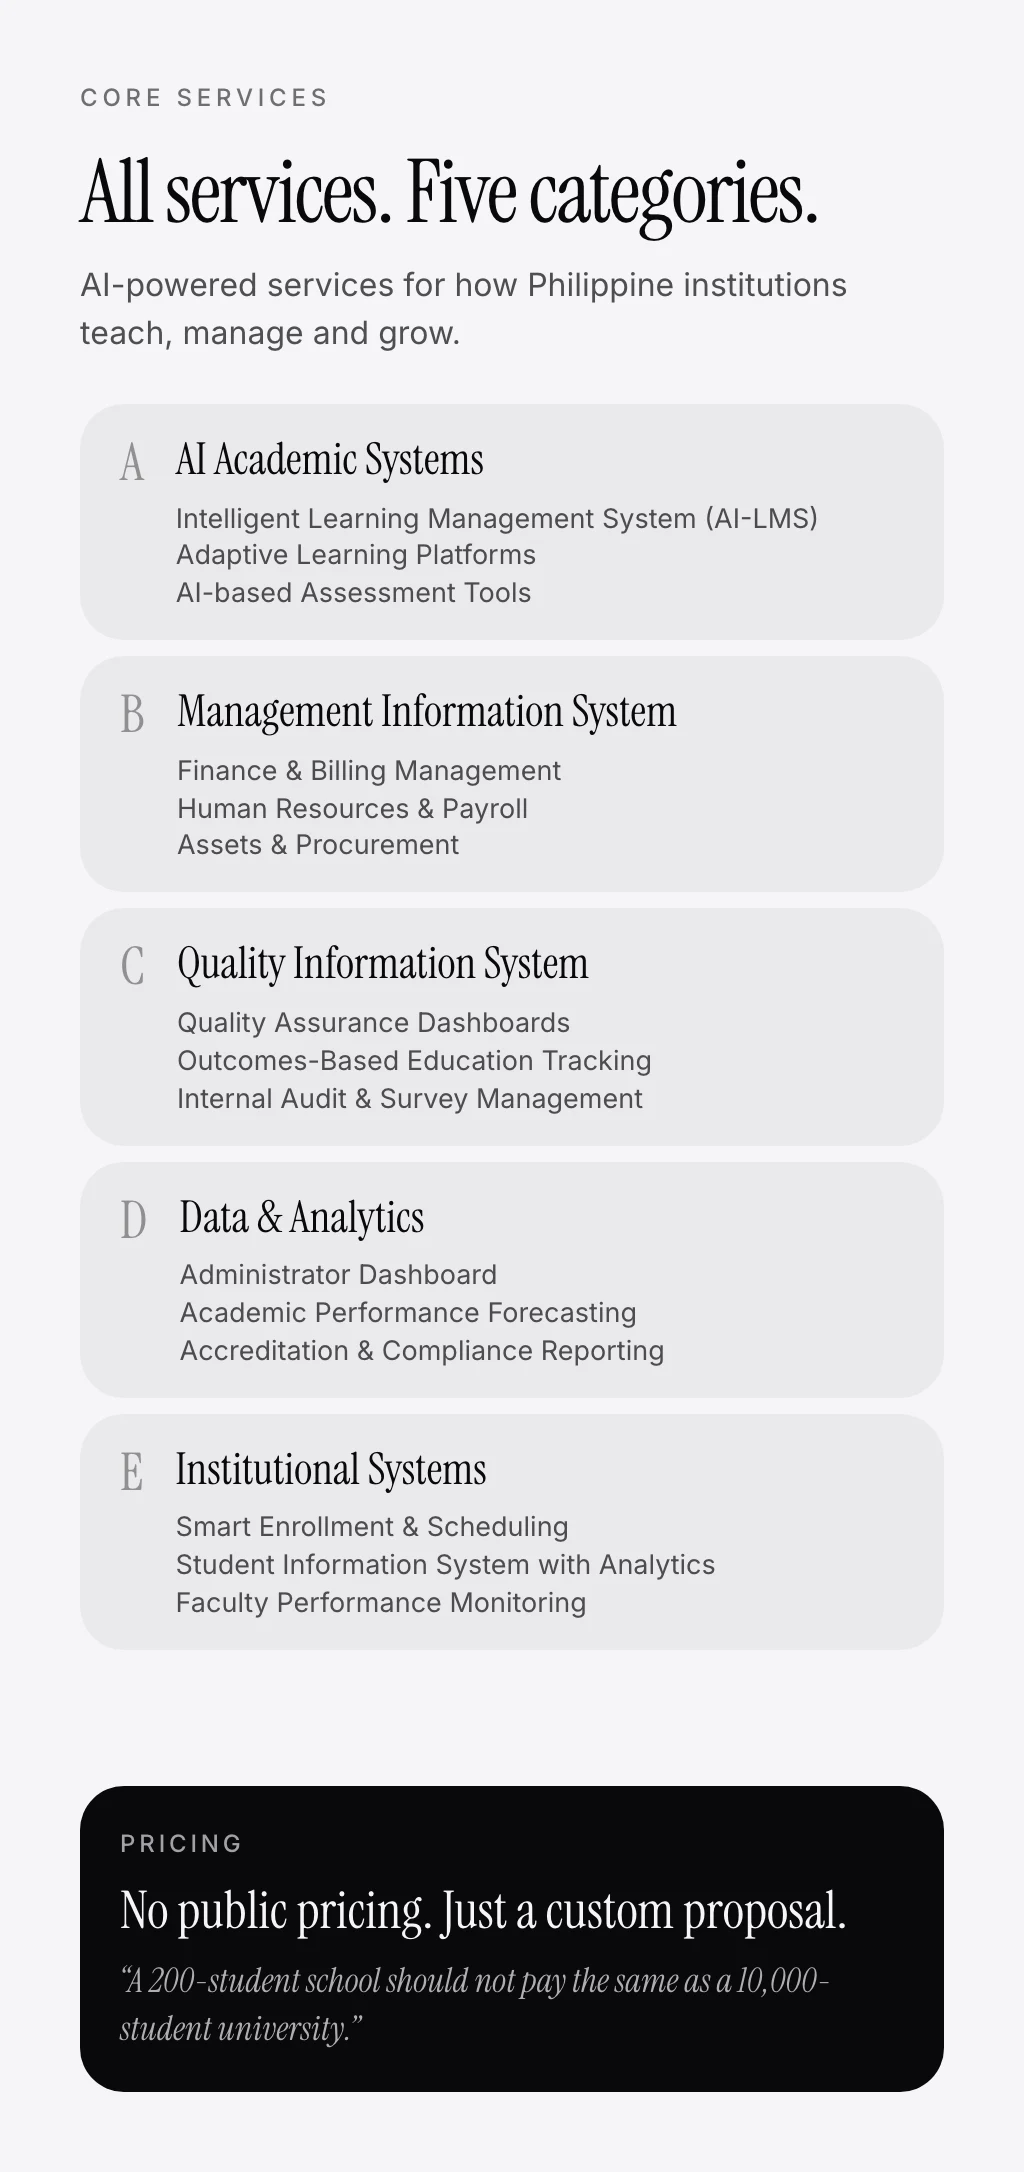
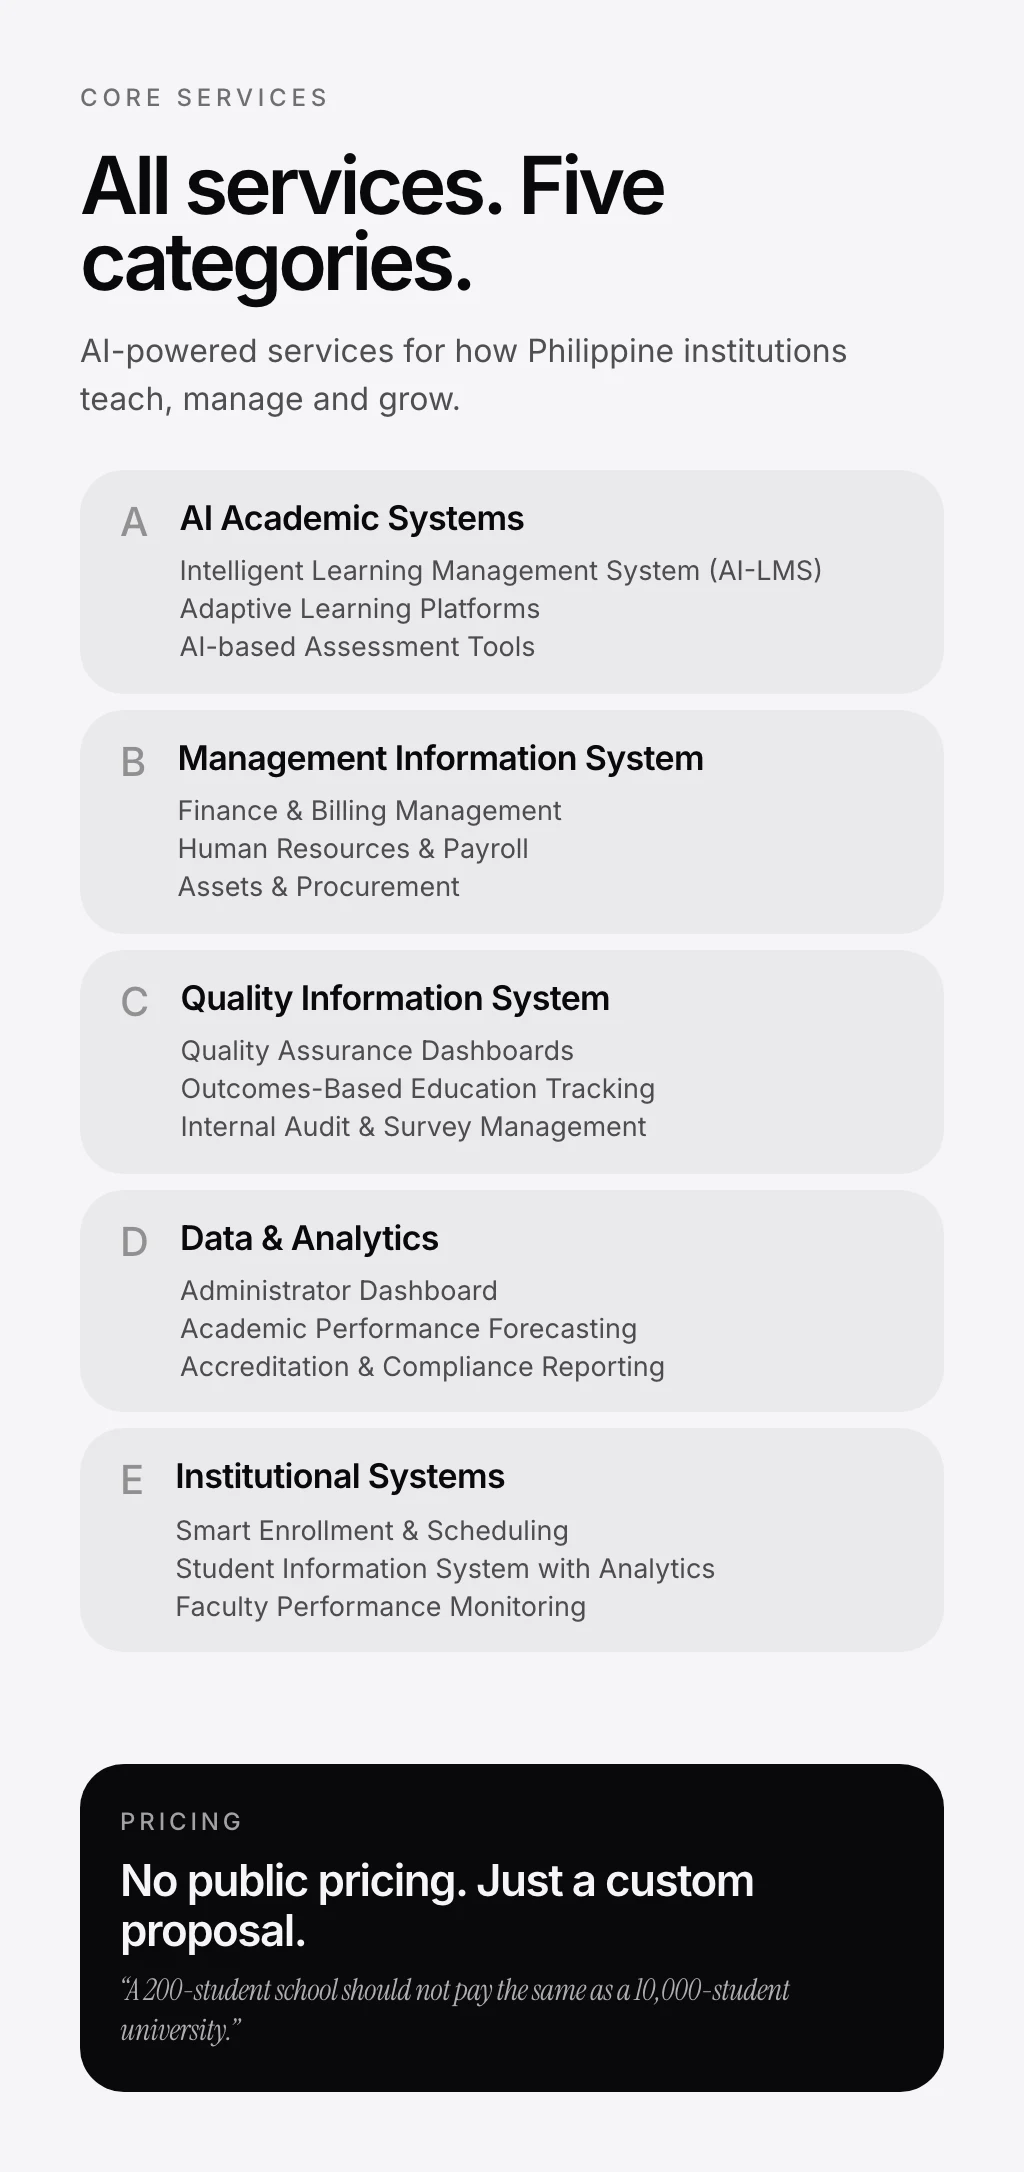
Typography: match the site — Inter semibold headings, Instrument Serif italic only as accent
Headlines were set in upright Instrument Serif, which the site never uses. The site
sets display text in Inter 600 with tight tracking and reserves Instrument Serif for
the italic accent line (.text-accent-serif). Mirror that on all six panels and in the
hotspot sheet; load only the italic serif face; re-render the panel textures.

diff --git a/components/panels/InsideC.tsx b/components/panels/InsideC.tsx
@@ -7,15 +7,15 @@ export function InsideC() {
   return (
     <Panel tone="paper">
       <Eyebrow>{s.eyebrow}</Eyebrow>
-      <h2 className="mt-4 font-serif text-[44px] leading-[1.0] tracking-tight">{s.heading}</h2>
+      <h2 className="mt-4 text-[40px] font-semibold leading-[0.96] tracking-[-0.05em]">{s.heading}</h2>
       <p className="mt-3 text-[16px] leading-[1.5] text-ink/70">{s.body}</p>
 
       <ul className="mt-6 flex flex-col gap-2">
         {s.categories.map((c) => (
           <li key={c.id} data-hotspot={c.id} className="flex gap-4 rounded-panel bg-black/[0.045] px-5 py-3.5">
-            <span className="mt-0.5 font-serif text-[26px] leading-none text-ink/40">{c.letter}</span>
+            <span className="mt-0.5 text-[20px] font-medium leading-none tracking-[-0.02em] text-ink/40">{c.letter}</span>
             <div>
-              <p className="font-serif text-[22px] leading-tight">{c.title}</p>
+              <p className="text-[17px] font-semibold leading-tight tracking-[-0.02em]">{c.title}</p>
               <ul className="mt-1.5 text-[13.5px] leading-[1.4] text-ink/70">
                 {c.items.map((it) => (
                   <li key={it}>{it}</li>
@@ -28,8 +28,8 @@ export function InsideC() {
 
       <div data-hotspot="pricing" className="mt-auto rounded-panel bg-ink p-5 text-paper">
         <p className="text-[12px] font-medium uppercase tracking-[0.16em] text-muted-dark">{p.eyebrow}</p>
-        <p className="mt-2 font-serif text-[26px] leading-tight">{p.heading}</p>
-        <p className="mt-2 font-serif text-[17px] italic leading-snug text-paper/70">“{p.quote}”</p>
+        <p className="mt-2 text-[22px] font-semibold leading-[1.1] tracking-[-0.035em]">{p.heading}</p>
+        <p className="accent-serif mt-2 text-[15px] leading-snug text-paper/70">“{p.quote}”</p>
       </div>
     </Panel>
   );

diff --git a/components/panels/InsideA.tsx b/components/panels/InsideA.tsx
@@ -7,7 +7,7 @@ export function InsideA() {
   return (
     <Panel tone="paper">
       <Eyebrow>{t.eyebrow}</Eyebrow>
-      <h2 className="mt-4 font-serif text-[42px] leading-[1.02] tracking-tight">{t.heading}</h2>
+      <h2 className="mt-4 text-[38px] font-semibold leading-[0.98] tracking-[-0.05em]">{t.heading}</h2>
       <p className="mt-4 text-[17px] leading-[1.5] text-ink/70">{t.body}</p>
 
       <ol className="mt-8 grid grid-cols-2 gap-4">
@@ -18,7 +18,7 @@ export function InsideA() {
             </div>
             <div className="px-4 pb-4 pt-3">
               <p className="text-[12px] font-medium tracking-[0.16em] text-muted-dark">{s.n}</p>
-              <p className="mt-1 font-serif text-[22px] leading-tight">{s.title}</p>
+              <p className="mt-1 text-[17px] font-semibold leading-tight tracking-[-0.02em]">{s.title}</p>
               <p className="mt-1.5 text-[13px] leading-[1.38] text-paper/70">{s.body}</p>
             </div>
           </li>
@@ -27,7 +27,7 @@ export function InsideA() {
 
       <div data-hotspot="taglish" className="mt-5 rounded-panel bg-black/[0.045] p-5">
         <p className="text-[12px] font-medium uppercase tracking-[0.16em] text-muted">AI Teacher Mode · {t.demo.context}</p>
-        <p className="mt-2.5 font-serif text-[20px] italic leading-snug">“{t.demo.quote}”</p>
+        <p className="accent-serif mt-2.5 text-[18px] leading-snug">“{t.demo.quote}”</p>
         <p className="mt-3 text-[14px] leading-[1.45] text-ink/70">
           <span className="font-medium text-ink">Student:</span> {t.demo.studentAsk}
         </p>

diff --git a/components/pamphlet/Sheet.tsx b/components/pamphlet/Sheet.tsx
@@ -25,7 +25,7 @@ export function Sheet({ id, onClose }: { id: string | null; onClose: () => void 
           <div className="flex items-start justify-between gap-4">
             <div>
               {h.eyebrow && <p className="text-xs font-medium uppercase tracking-[0.18em] text-ink/55">{h.eyebrow}</p>}
-              <h2 className="mt-2 font-serif text-[1.85rem] leading-[1.05] tracking-tight">{h.title}</h2>
+              <h2 className="mt-2 text-[1.6rem] font-semibold leading-[1.05] tracking-[-0.04em]">{h.title}</h2>
             </div>
             <button
               type="button"
@@ -37,14 +37,14 @@ export function Sheet({ id, onClose }: { id: string | null; onClose: () => void 
             </button>
           </div>
 
-          {h.quote && <p className="mt-4 font-serif text-xl italic leading-snug text-ink/80">“{h.quote}”</p>}
+          {h.quote && <p className="accent-serif mt-4 text-lg leading-snug text-ink/80">“{h.quote}”</p>}
           <p className="mt-3 text-[16px] leading-relaxed text-ink/80">{h.body}</p>
 
           {h.stats && (
             <dl className="mt-4 grid grid-cols-2 gap-2 sm:grid-cols-4">
               {h.stats.map((s) => (
                 <div key={s.label} className="rounded-panel bg-ink/[0.05] p-3">
-                  <dd className="font-serif text-2xl leading-none">{s.value}</dd>
+                  <dd className="text-2xl font-semibold leading-none tracking-[-0.04em]">{s.value}</dd>
                   <dt className="mt-1 text-[11px] uppercase tracking-wider text-ink/55">{s.label}</dt>
                 </div>
               ))}

diff --git a/components/panels/Flap.tsx b/components/panels/Flap.tsx
@@ -7,13 +7,13 @@ export function Flap() {
     <Panel tone="paper">
       <div data-hotspot="idea" className="-mx-3 px-3 py-2">
         <Eyebrow>{idea.eyebrow}</Eyebrow>
-        <h2 className="mt-4 font-serif text-[44px] leading-[1.02] tracking-tight">{idea.heading}</h2>
-        <p className="mt-4 font-serif text-[26px] italic leading-tight text-ink/70">{idea.body}</p>
+        <h2 className="mt-4 text-[40px] font-semibold leading-[0.98] tracking-[-0.05em]">{idea.heading}</h2>
+        <p className="accent-serif mt-4 text-[23px] leading-[1.15] text-ink/70">{idea.body}</p>
       </div>
 
       <div className="mt-12">
         <Eyebrow>{trust.eyebrow}</Eyebrow>
-        <h3 className="mt-3 font-serif text-[34px] leading-[1.05] tracking-tight">{trust.heading}</h3>
+        <h3 className="mt-3 text-[30px] font-semibold leading-[1.02] tracking-[-0.045em]">{trust.heading}</h3>
         <p className="mt-3 text-[16px] leading-[1.5] text-ink/70">{trust.body}</p>
       </div>
 
@@ -21,7 +21,7 @@ export function Flap() {
         {trust.pillars.map((p) => (
           <li key={p.id} data-hotspot={p.id} className="rounded-panel bg-black/[0.045] px-5 py-4">
             <p className="text-[13px] font-medium uppercase tracking-[0.14em] text-muted">{p.title}</p>
-            <p className="mt-1.5 font-serif text-[24px] leading-tight">{p.lead}</p>
+            <p className="mt-1.5 text-[19px] font-semibold leading-[1.15] tracking-[-0.03em]">{p.lead}</p>
             <p className="mt-1.5 text-[14px] text-ink/60">{p.tag}</p>
           </li>
         ))}

diff --git a/components/panels/InsideB.tsx b/components/panels/InsideB.tsx
@@ -6,20 +6,20 @@ export function InsideB() {
   return (
     <Panel tone="paper">
       <Eyebrow>{o.eyebrow}</Eyebrow>
-      <h2 className="mt-4 font-serif text-[46px] leading-[1.0] tracking-tight">{o.heading}</h2>
+      <h2 className="mt-4 text-[42px] font-semibold leading-[0.96] tracking-[-0.05em]">{o.heading}</h2>
       <p className="mt-4 text-[17px] leading-[1.5] text-ink/70">{o.body}</p>
 
       <ul className="mt-8 flex flex-col gap-3">
         {o.systems.map((s) => (
           <li key={s.id} data-hotspot={s.id} className="rounded-panel bg-black/[0.045] px-5 py-4">
             <p className="text-[12px] font-medium uppercase tracking-[0.16em] text-muted">{s.title}</p>
-            <p className="mt-1.5 font-serif text-[26px] leading-tight">{s.lead}</p>
+            <p className="mt-1.5 text-[20px] font-semibold leading-[1.15] tracking-[-0.03em]">{s.lead}</p>
             <p className="mt-2 text-[15px] leading-[1.45] text-ink/70">{s.body}</p>
             {"stats" in s && (
               <div className="mt-3 flex gap-6">
                 {s.stats.map((st) => (
                   <div key={st.label}>
-                    <p className="font-serif text-[30px] leading-none">{st.value}</p>
+                    <p className="text-[26px] font-semibold leading-none tracking-[-0.04em]">{st.value}</p>
                     <p className="mt-1 text-[11.5px] uppercase tracking-wider text-muted">{st.label}</p>
                   </div>
                 ))}

diff --git a/components/panels/Front.tsx b/components/panels/Front.tsx
@@ -13,17 +13,17 @@ export function Front() {
       </div>
 
       <div data-hotspot="platform" className="mt-auto -mx-3 px-3 py-3">
-        <h1 className="font-serif text-[64px] leading-[0.98] tracking-tight">
+        <h1 className="text-[60px] font-semibold leading-[0.94] tracking-[-0.055em]">
           One platform.
           <br />
-          <em className="text-paper/70">Complete school intelligence.</em>
+          <span className="accent-serif text-paper/70">Complete school intelligence.</span>
         </h1>
         <p className="mt-7 text-[20px] leading-[1.5] text-muted-dark">{SITE.description}</p>
       </div>
 
       <div data-hotspot="san-isidro" className="mt-12 rounded-panel bg-white/[0.06] p-6 ring-1 ring-white/10">
         <p className="text-[12px] font-medium uppercase tracking-[0.2em] text-muted-dark">Live today</p>
-        <p className="mt-2 font-serif text-[30px] leading-tight">
+        <p className="mt-2 text-[25px] font-semibold leading-[1.1] tracking-[-0.035em]">
           {SITE.proof.school} · {SITE.proof.headline}
         </p>
         <p className="mt-2 text-[15px] text-paper/70">

diff --git a/app/globals.css b/app/globals.css
@@ -34,6 +34,15 @@ body {
   text-rendering: optimizeLegibility;
 }
 
+/* The site's .text-accent-serif: Instrument Serif is only ever used like this. */
+@utility accent-serif {
+  font-family: var(--font-serif);
+  font-style: italic;
+  font-weight: 400;
+  letter-spacing: -0.02em;
+  font-size: 1.08em;
+}
+
 ::selection {
   background: var(--color-paper);
   color: var(--color-ink);

diff --git a/components/panels/Back.tsx b/components/panels/Back.tsx
@@ -14,7 +14,7 @@ export function Back() {
       </div>
 
       <div className="mt-auto">
-        <h2 className="font-serif text-[54px] leading-[0.98] tracking-tight">{c.heading}</h2>
+        <h2 className="text-[50px] font-semibold leading-[0.96] tracking-[-0.055em]">{c.heading}</h2>
         <p className="mt-6 text-[19px] leading-[1.5] text-muted-dark">{c.body}</p>
       </div>
 

diff --git a/app/layout.tsx b/app/layout.tsx
@@ -12,7 +12,7 @@ const inter = Inter({
 const instrumentSerif = Instrument_Serif({
   subsets: ["latin"],
   weight: "400",
-  style: ["normal", "italic"],
+  style: ["italic"],
   variable: "--font-instrument-serif",
   display: "swap",
 });
